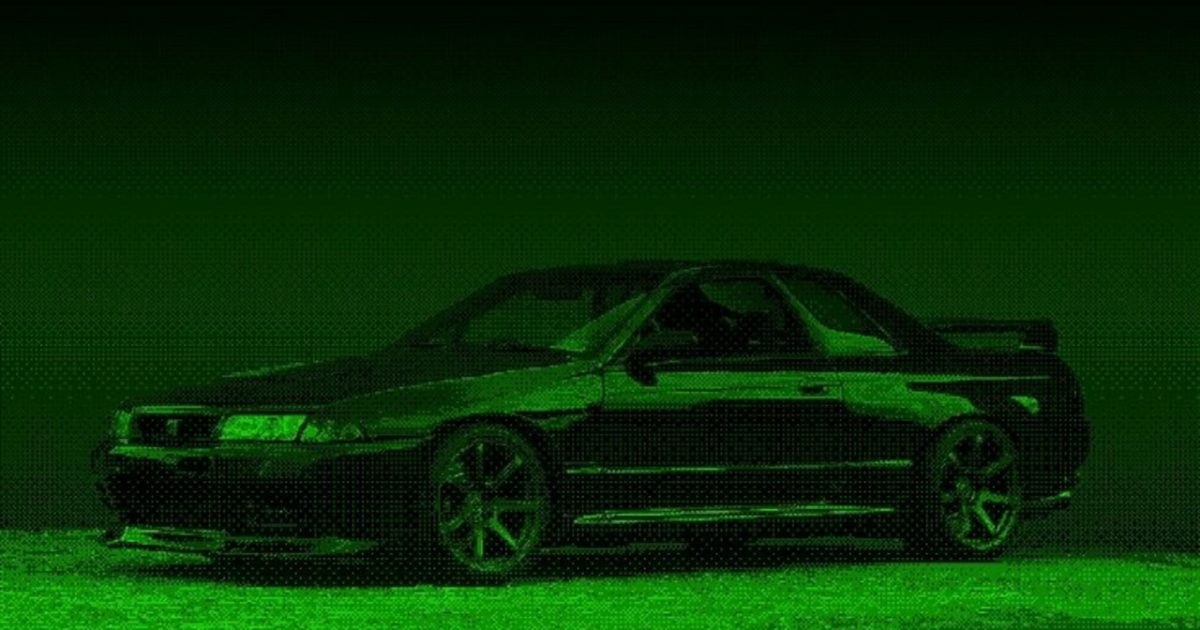
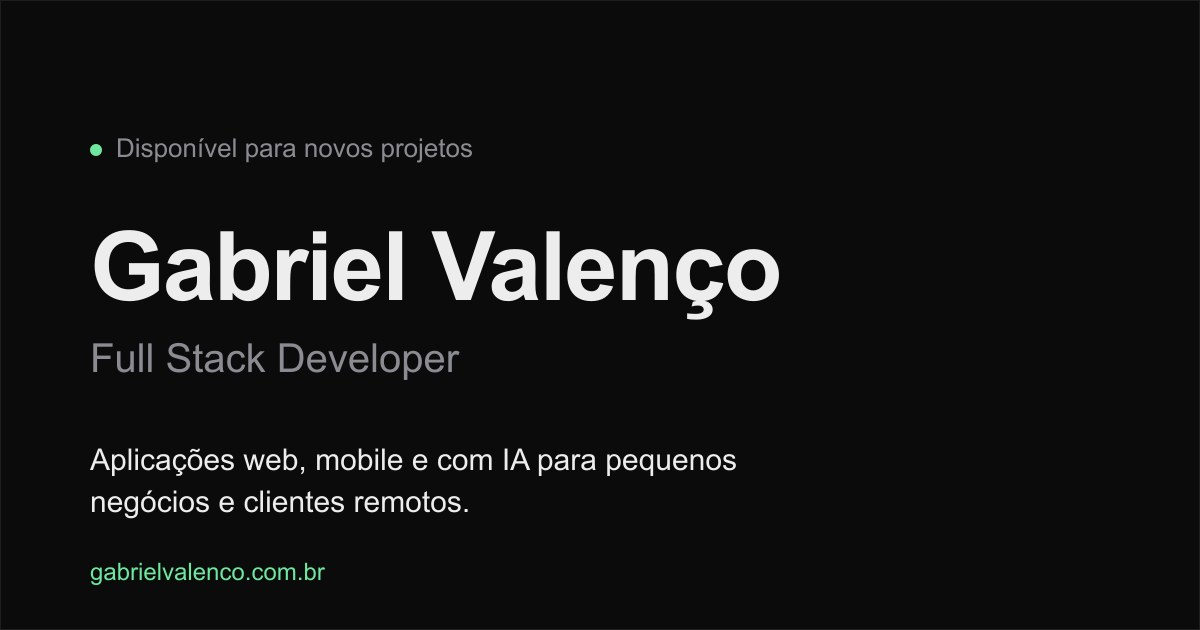
Fase 6: og-image novo, foto do hero otimizada

diff --git a/src/pages/Home.tsx b/src/pages/Home.tsx
@@ -24,10 +24,10 @@ function Hero() {
     <section className="mx-auto max-w-5xl px-6 pb-24 pt-40 md:pb-32 md:pt-48">
       <div className="hero-in flex items-center gap-4">
         <img
-          src="/pfp.webp"
+          src="/pfp-sm.webp"
           alt="Gabriel Valenço"
-          width={800}
-          height={1200}
+          width={128}
+          height={128}
           fetchPriority="high"
           className="size-16 rounded-full object-cover object-top"
         />
